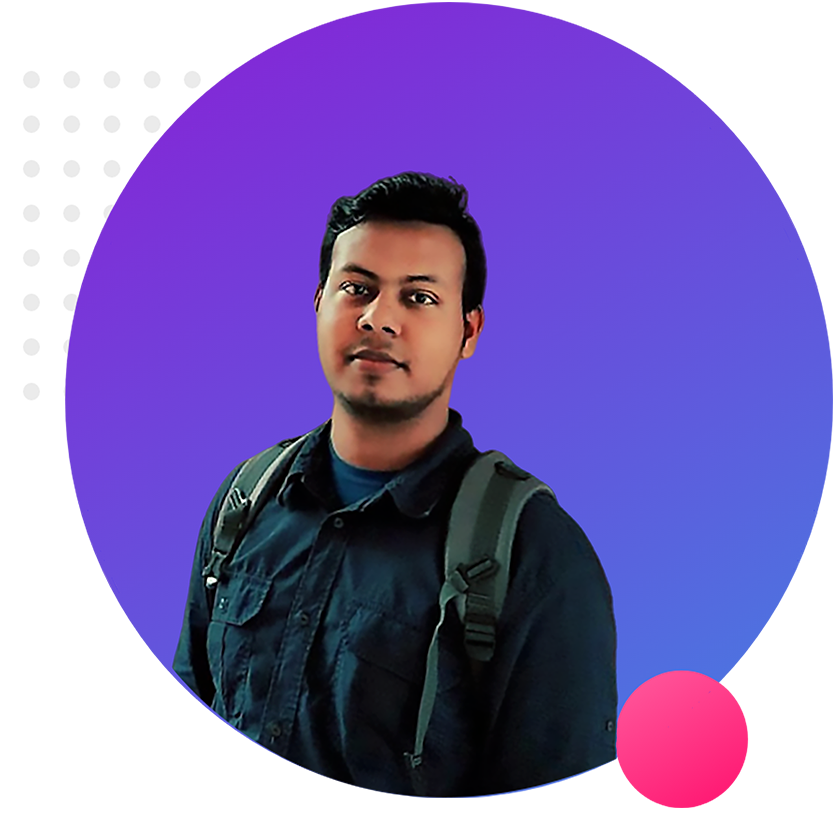
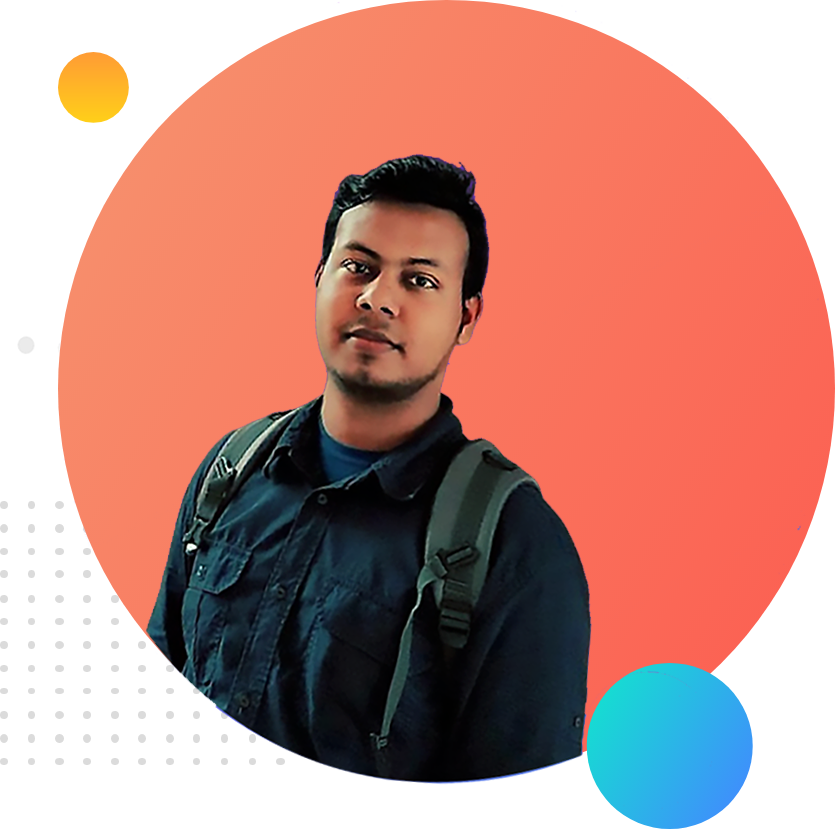
full website

diff --git a/index.html b/index.html
@@ -8,16 +8,55 @@
     <link rel="stylesheet" href="style.css">
 </head>
 <body>
-    <section>
+    <section class="top-banner">
             <div class="half-width">
                 <h1>Welcome To</h1>
                 <h1><span class="name">Arif</span> World</h1>
                 <h3>Professional Web Developer</h3>
                 <p>Web developer on the job market are typically best served by professional resumes that.emphasize both their strong tech skills and their creative design talents.Thus, the format of a web developer resume can be more “artistic” than that which would be utilized for more conservative career fields.</p>
+                <a class="button" target="_blank" href="https://www.linkedin.com/in/r3a-design-1360a1175/">Hire Me</a>
+            </div>
+
+            <div class="half-width">
+                <img src="images/profile2.png" alt="">
             </div>
     </section>
-    <div class="half-width">
-        <img src="images/profile1.png" alt="">
-    </div>
+
+
+
+    <section class="Dream">
+        <div class="half-width">
+            <img src="images/profile1.png" alt="">
+        </div>
+        <div class="half-width">
+                <h2>Dream Big</h12>
+                <h3>Becoming Web Developer</h3>
+                <p>Web developer on the job market are typically best served by professional resumes that.emphasize both their strong tech skills and their creative design talents.Thus, the format of a web developer resume can be more “artistic” than that which would be utilized for more conservative career fields.</p>
+                <a class="button2" target="_blank" href="https://www.facebook.com/profile.php?id=100015926198232">Connect With Me</a>
+        </div>
+
+    </section>
+
+
+    <section class="experience">
+
+        <div id="full-stack" class="half-width single-experience">
+                <h2>Full Stack Web Developer</h2>
+                <h3 class="name">2021-Present | Pro Level Web Developer</h3>
+                <p class="experience-status">I am the master of HTML, CSS and Javascript. I know everything needed to make a website function, efficient. I didn't stop with the web. I went beyond with most popular Javascript framework called Vue JS. I even know the deployment, server and security. I will give you 100% web solution.</p>
+        </div>
+
+        <div id="baby-stack" class="half-width single-experience">
+                <h2>Baby Web Developer</h2>
+                <h3 class="name">2020-2021 | Programming Hero Learner</h3>
+                <p class="experience-status">They didn't offer me a job. But I made myself as a remove web developer. I made their website and showed it to them. They liked it. And uploaded the content. It was fun working at Programming Hero.</p>
+        </div>
+
+    </section>
+
+    <footer>
+        <p class="footer">© Arif Hossain 2021, All Right Reserved.</p>
+    </footer>
+
 </body>
 </html>

diff --git a/style.css b/style.css
@@ -1,5 +1,6 @@
 body{
     font-family: 'Noto Serif';
+    margin: 0;
 }
 h1{
     font-size: 50px;
@@ -8,12 +9,17 @@ h1{
 .name{
     color: orange;
 }
+h2{
+    font-size: 40px;
+    color: rgb(17, 2, 70);
+}
 h3{
     color: rgb(17, 2, 70);
 }
 
 p{
     color: lightslategray;
+    text-align: justify;
 }
 .half-width{
     width: 40%;
@@ -23,4 +29,62 @@ p{
 }
 .half-width img{
     width: 100%;
+}
+.top-banner{
+    background-image: url("images/top-banner.png");
+    background-repeat: no-repeat;
+}
+section{
+    height: 600px;
+    padding-bottom: 100px;
+}
+.button{
+    text-decoration: none;
+    background-image: linear-gradient(lightsalmon, tomato);
+    padding: 10px 30px;
+    color: whitesmoke;
+    border-radius: 30px;
+    font-weight: 700;
+}
+.button2{
+    text-decoration: none;
+    background-image: linear-gradient(rgb(192, 46, 236), rgb(201, 106, 245));
+    padding: 10px 30px;
+    color: whitesmoke;
+    border-radius: 30px;
+    font-weight: 700;
+}
+.Dream{
+    background-image: url("images/dream-bg.png");
+    background-repeat: no-repeat;
+    background-position: right;
+}
+.single-experience{
+    box-shadow: 5px 5px 40px rgb(186, 83, 255);
+    border-radius: 5px;
+    height: 60%;
+}
+.experience-status{
+    text-align: justify;
+    padding-right: 40px;
+}
+.experience{
+    background-image: url("images/exp-bg.png");
+    background-repeat: no-repeat;
+    background-position: left;
+    padding-bottom: 20px;
+    padding-top: 50px;
+}
+#full-stack{
+    border-left: 7px solid;
+    border-image: linear-gradient(lightsalmon, tomato);
+    border-image-slice: 1;
+}
+#baby-stack{
+    border-left: 7px solid;
+    border-image: linear-gradient(180deg, blue, cyan);
+    border-image-slice: 1;
+}
+.footer{
+    text-align: center;
 }
